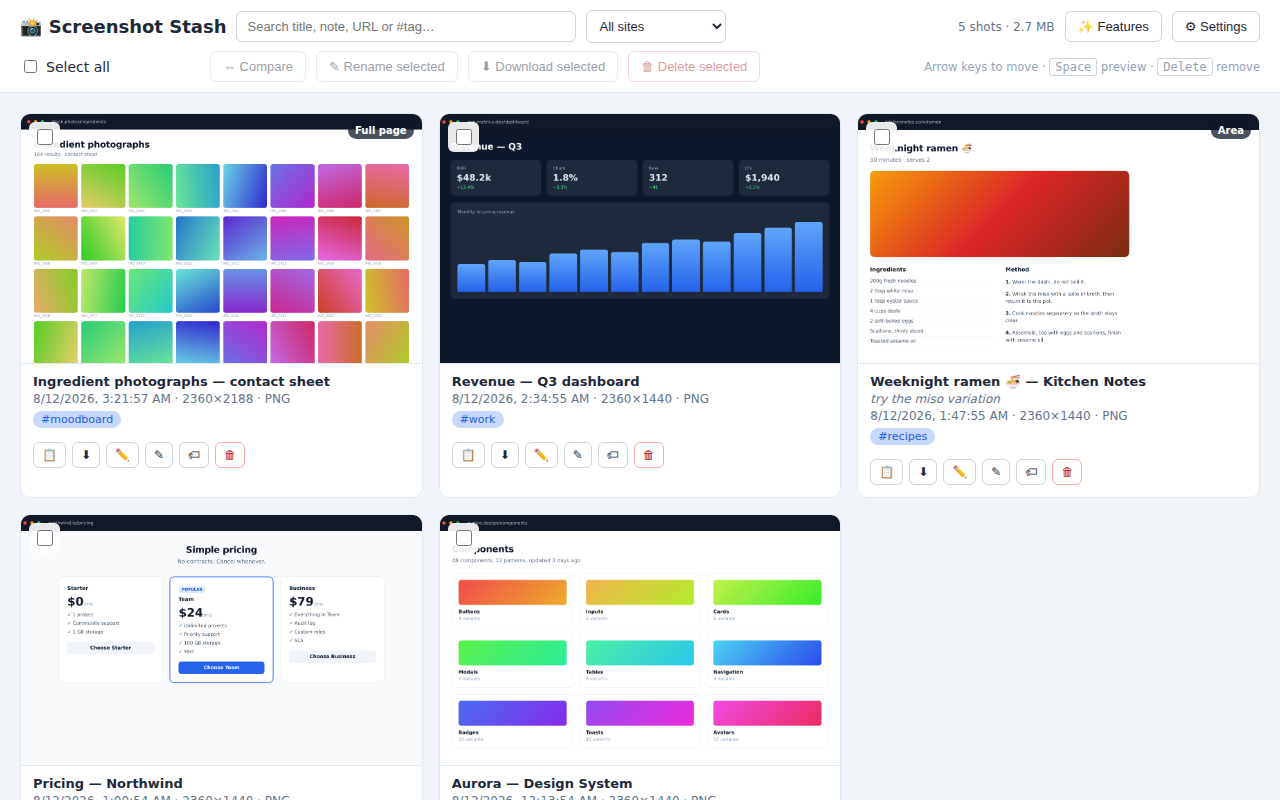
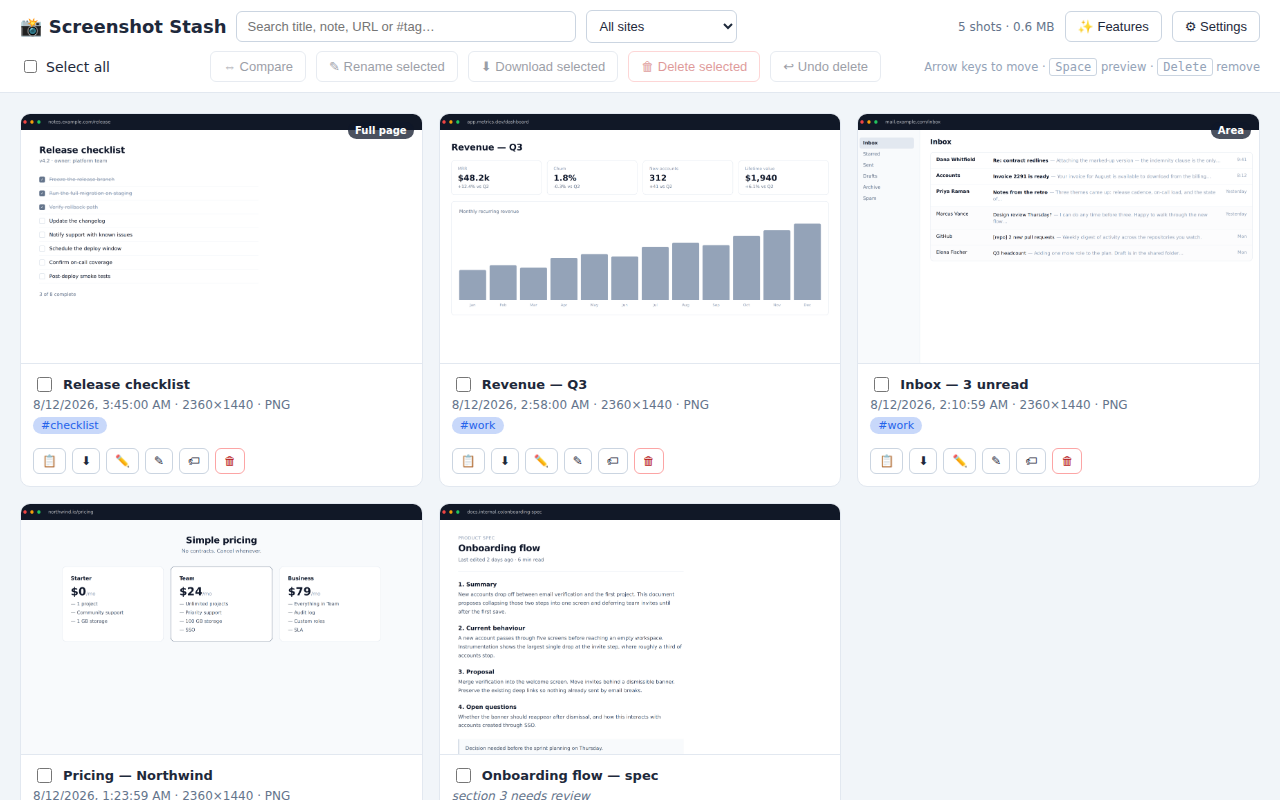
Fix bulk delete reaching past the filter, add a persistent Undo
Bulk rename acted on what was on screen, but bulk delete and download used
the raw selection. Select fifty, narrow the search to two, press delete, and
all fifty went. The selection is now pruned to the visible set on every
render and all three bulk actions share one helper, so the count on screen
is always what the buttons act on.

Undo is now a button in the toolbar, dimmed until there is something to
bring back, showing the count when there is more than one. It outlives the
toast, which previously discarded the batch after six seconds — that timer
now only hides the toast. The toast keeps its own Undo as the quick path.

The card checkbox floated over the top-left of the thumbnail, covering
whatever the captured page had in that corner; titles read as truncated.
It now sits beside the card title instead.

Opera and Edge run Chrome extensions but keep the shortcut editor on their
own scheme, so the Shortcuts button sent them to a page that does not
exist. It now picks by user agent and falls back to telling the user the
address if the browser refuses to open it.

Store assets rebuilt: the demo pages were loud enough to pull attention off
the UI, so they are documents now — a spec, an inbox, a checklist, a muted
dashboard. Added a screenshot of the toolbar popup in context, and the
promo tiles carry the current name and tagline instead of the old one. The
popup shortcut hint lays out in rows rather than wrapping mid-phrase.

diff --git a/library.js b/library.js
@@ -15,6 +15,7 @@ const compareBtn = document.getElementById('compare');
 const bulkRenameBtn = document.getElementById('bulk-rename');
 const bulkDownloadBtn = document.getElementById('bulk-download');
 const bulkDeleteBtn = document.getElementById('bulk-delete');
+const undoBtn = document.getElementById('undo');
 const searchInput = document.getElementById('search');
 const siteFilter = document.getElementById('site-filter');
 const storageMeter = document.getElementById('storage-meter');
@@ -105,9 +106,14 @@ async function render() {
   refreshStorageMeter();
   applyFilters();
 
-  // Drop selections and cached URLs for shots that no longer exist.
+  // Keep the selection to what is actually on screen. Otherwise "Delete
+  // selected" acts on shots the filter is hiding — you narrow fifty down to
+  // two, press delete, and lose all fifty.
+  const onScreen = new Set(visible.map((s) => s.id));
+  for (const id of selected) if (!onScreen.has(id)) selected.delete(id);
+
+  // Release cached URLs for shots that no longer exist.
   const ids = new Set(shots.map((s) => s.id));
-  for (const id of selected) if (!ids.has(id)) selected.delete(id);
   for (const [id, url] of urlCache) {
     if (!ids.has(id)) {
       URL.revokeObjectURL(url);
@@ -305,22 +311,35 @@ async function removeShots(ids) {
   await render();
 
   pendingUndo = records;
+  updateUndoUi();
   const label = ids.length === 1 ? 'Screenshot deleted' : `${ids.length} screenshots deleted`;
-  toast(label, {
-    undo: async () => {
-      const toRestore = pendingUndo;
-      pendingUndo = null;
-      if (!toRestore) return;
-      await restoreShots(toRestore);
-      notifyShotsChanged();
-      await render();
-      toast('Restored');
-    },
-  });
+  toast(label, { undo: performUndo });
 }
+
+// The toast is easy to miss, so the button stays available until the next
+// delete replaces the batch — the toast is just the faster way to reach it.
+async function performUndo() {
+  const toRestore = pendingUndo;
+  pendingUndo = null;
+  updateUndoUi();
+  if (!toRestore?.length) return;
+  await restoreShots(toRestore);
+  notifyShotsChanged();
+  await render();
+  toast(toRestore.length === 1 ? 'Screenshot restored' : `${toRestore.length} screenshots restored`);
+}
+
+function updateUndoUi() {
+  const n = pendingUndo?.length || 0;
+  undoBtn.disabled = n === 0;
+  undoBtn.textContent = n > 1 ? `↩ Undo delete (${n})` : '↩ Undo delete';
+}
+
+undoBtn.addEventListener('click', performUndo);
 
 async function commitPendingUndo() {
   pendingUndo = null;
+  updateUndoUi();
 }
 
 // ---------- bulk actions ----------
@@ -337,7 +356,7 @@ selectAllBox.addEventListener('change', () => {
 });
 
 bulkRenameBtn.addEventListener('click', async () => {
-  const ids = visible.filter((s) => selected.has(s.id)).map((s) => s.id);
+  const ids = selectedIds();
   if (!ids.length) return;
   const answer = await askDialog({
     title: `Rename ${ids.length} screenshot${ids.length === 1 ? '' : 's'}`,
@@ -365,15 +384,20 @@ bulkRenameBtn.addEventListener('click', async () => {
   toast(`Renamed ${ids.length} screenshot${ids.length === 1 ? '' : 's'}`);
 });
 
+// Always in display order, and always only what is on screen.
+function selectedIds() {
+  return visible.filter((s) => selected.has(s.id)).map((s) => s.id);
+}
+
 bulkDownloadBtn.addEventListener('click', async () => {
-  const ids = [...selected];
+  const ids = selectedIds();
   for (const id of ids) {
     await downloadShot(id);
   }
   toast(`Downloading ${ids.length} screenshot${ids.length === 1 ? '' : 's'}`);
 });
 
-bulkDeleteBtn.addEventListener('click', () => removeShots([...selected]));
+bulkDeleteBtn.addEventListener('click', () => removeShots(selectedIds()));
 
 compareBtn.addEventListener('click', async () => {
   const [a, b] = [...selected];
@@ -404,10 +428,24 @@ document.addEventListener('click', (e) => {
   }
 });
 
-// Chrome owns the shortcut editor; an extension cannot rebind keys itself, and
-// a plain link to a chrome:// URL is blocked, so open it as a tab.
-document.getElementById('shortcuts').addEventListener('click', () => {
-  chrome.tabs.create({ url: 'chrome://extensions/shortcuts' });
+// The browser owns the shortcut editor; an extension cannot rebind keys itself,
+// and a plain link to a browser-internal URL is blocked, so open it as a tab.
+// Opera and Edge run Chrome extensions but keep that page on their own scheme.
+function shortcutsUrl() {
+  const ua = navigator.userAgent;
+  if (ua.includes('OPR/')) return 'opera://extensions/shortcuts';
+  if (ua.includes('Edg/')) return 'edge://extensions/shortcuts';
+  return 'chrome://extensions/shortcuts';
+}
+
+document.getElementById('shortcuts').addEventListener('click', async () => {
+  const url = shortcutsUrl();
+  try {
+    await chrome.tabs.create({ url });
+  } catch {
+    // Some builds refuse to open their settings pages from an extension.
+    toast(`Open ${url} to change the shortcuts`);
+  }
 });
 
 document.getElementById('export-all').addEventListener('click', async () => {
@@ -622,9 +660,10 @@ function toast(text, { undo } = {}) {
     : null;
   toastEl.hidden = false;
   clearTimeout(toastTimer);
+  // The toast only hides itself. Discarding the undo batch here would dim the
+  // Undo button the moment the toast faded, which defeats having the button.
   toastTimer = setTimeout(() => {
     toastEl.hidden = true;
-    if (undo) commitPendingUndo();
   }, undo ? 6000 : 2500);
 }
 

diff --git a/library.html b/library.html
@@ -62,6 +62,7 @@
       <button id="bulk-rename" class="btn" disabled title="Give them all one name, numbered">✎ Rename selected</button>
       <button id="bulk-download" class="btn" disabled>⬇ Download selected</button>
       <button id="bulk-delete" class="btn btn-danger" disabled>🗑 Delete selected</button>
+      <button id="undo" class="btn" disabled title="Bring back the screenshots you just deleted">↩ Undo delete</button>
       <span class="keyhint">Arrow keys to move · <kbd>Space</kbd> preview · <kbd>Delete</kbd> remove</span>
     </div>
   </header>
@@ -98,14 +99,16 @@
 
   <template id="card-template">
     <div class="card" tabindex="-1">
-      <label class="card-check">
-        <input type="checkbox" class="select-box">
-      </label>
       <span class="kind-badge" hidden></span>
       <span class="dup-badge" hidden title="Looks nearly identical to another screenshot">≈ duplicate</span>
       <img class="thumb" alt="Screenshot" draggable="true" title="Click to preview · drag into another app">
       <div class="card-body">
-        <div class="card-title"></div>
+        <div class="card-heading">
+          <label class="card-check">
+            <input type="checkbox" class="select-box">
+          </label>
+          <div class="card-title"></div>
+        </div>
         <div class="card-note" hidden></div>
         <div class="card-meta"></div>
         <div class="card-tags"></div>

diff --git a/library.css b/library.css
@@ -183,20 +183,24 @@ kbd {
   box-shadow: 0 0 0 2px var(--accent-soft);
 }
 
+/* The checkbox sits beside the title rather than over the thumbnail — floating
+   on the image it covered whatever was in the page's top-left corner, which
+   made captures look truncated. */
+.card-heading {
+  display: flex;
+  align-items: center;
+  gap: 8px;
+  min-width: 0;
+}
 .card-check {
-  position: absolute;
-  top: 8px;
-  left: 8px;
-  z-index: 2;
-  padding: 4px;
-  background: rgba(255, 255, 255, 0.9);
-  border-radius: 6px;
+  display: flex;
+  align-items: center;
   cursor: pointer;
   line-height: 0;
 }
 .card-check input {
-  width: 16px;
-  height: 16px;
+  width: 15px;
+  height: 15px;
   cursor: pointer;
 }
 
@@ -232,6 +236,8 @@ kbd {
   padding: 10px 12px 4px;
 }
 .card-title {
+  flex: 1;
+  min-width: 0;
   font-weight: 600;
   font-size: 13px;
   white-space: nowrap;

diff --git a/popup.js b/popup.js
@@ -121,13 +121,21 @@ async function showShortcuts() {
   const bound = (await chrome.commands.getAll()).filter((c) => c.shortcut && labels[c.name]);
   if (!bound.length) return;
 
-  hint.append('Works anywhere: ');
-  bound.forEach((command, i) => {
-    if (i) hint.append(' · ');
+  const heading = document.createElement('div');
+  heading.className = 'hint-heading';
+  heading.textContent = 'Works anywhere';
+  hint.append(heading);
+
+  for (const command of bound) {
+    const row = document.createElement('div');
+    row.className = 'hint-row';
     const key = document.createElement('kbd');
     key.textContent = command.shortcut;
-    hint.append(key, ` ${labels[command.name]}`);
-  });
+    const what = document.createElement('span');
+    what.textContent = labels[command.name];
+    row.append(key, what);
+    hint.append(row);
+  }
   hint.hidden = false;
 }
 

diff --git a/popup.css b/popup.css
@@ -77,11 +77,26 @@ body {
 .mode-btn:hover { background: var(--surface-hover); }
 
 .hint {
-  margin: 8px 0;
-  text-align: center;
+  margin: 10px 0 4px;
   color: var(--muted);
   font-size: 11px;
 }
+.hint[hidden] { display: none; }
+.hint-heading {
+  margin-bottom: 5px;
+  color: var(--faint, var(--muted));
+  font-size: 10px;
+  font-weight: 600;
+  letter-spacing: 0.05em;
+  text-transform: uppercase;
+}
+.hint-row {
+  display: flex;
+  align-items: center;
+  gap: 7px;
+  padding: 2px 0;
+}
+.hint-row kbd { flex: none; }
 kbd {
   padding: 1px 4px;
   border: 1px solid var(--border);
